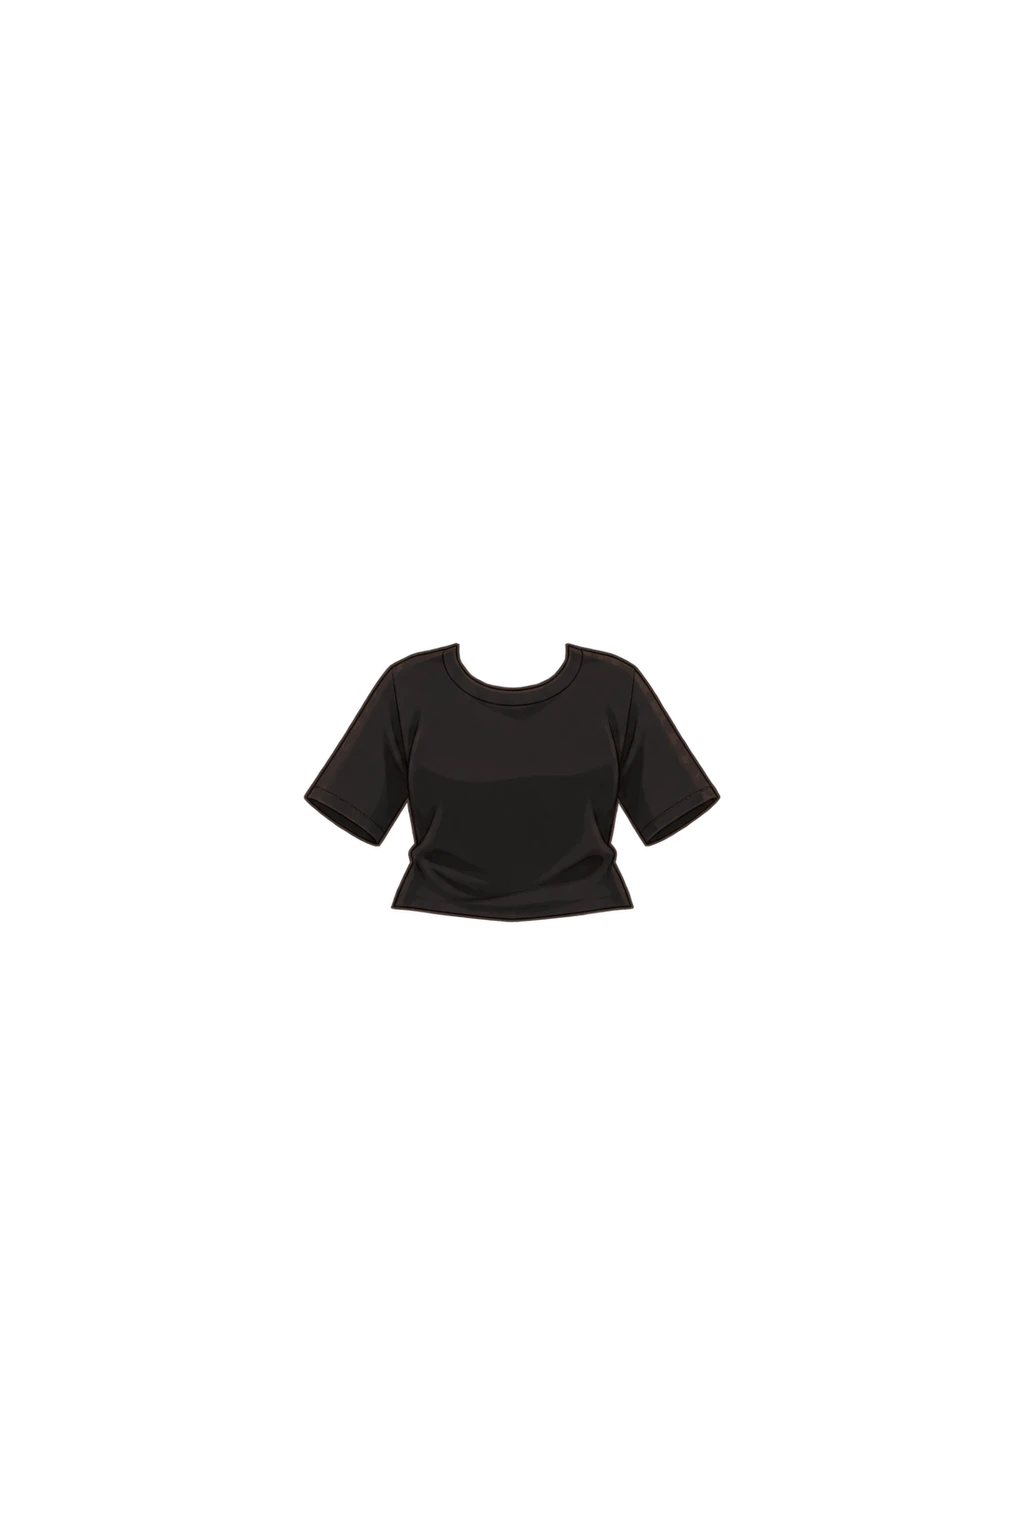
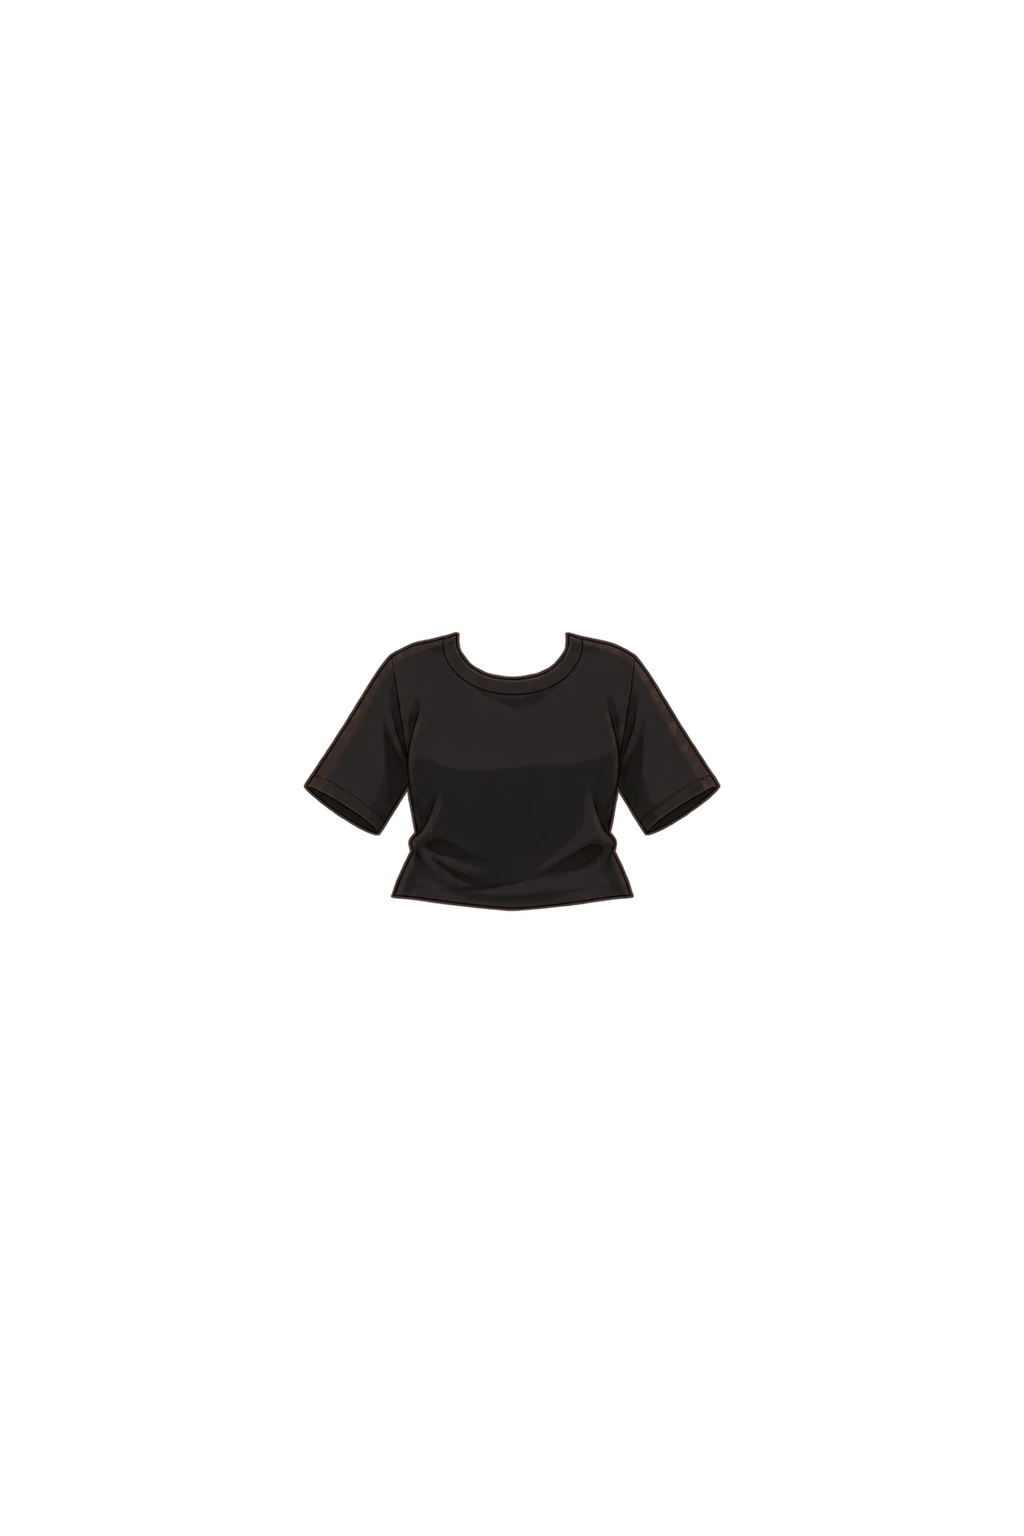
Closet: anchor the default top shrink at the shoulder line
Tops were shrunk around their center, which dropped the shoulders ~13px and let the avatar's shoulders show above them. They now shrink around their top edge.

Claude-Session: https://claude.ai/code/session_01QsJz8svXLJhiXtuEPA1E7w

diff --git a/scripts/build-assets.ts b/scripts/build-assets.ts
@@ -42,10 +42,11 @@ const CLOSET_SHRINK = 1 / 1.08
 // 원피스는 한 단계(+) 크게 보이도록 줄이지 않는다 (= 위 값의 1/1.08 을 되돌린 것)
 const SHRINK_CATEGORIES: Category[] = ['top', 'bottom', 'outer']
 
-async function shrinkAboutCenter(png: string | Buffer, k: number): Promise<Buffer> {
+/** anchor 'top': 옷 맨 위(어깨선)를 고정하고 줄인다 (상의가 어깨선에서 내려오지 않게). 'center': 영역 중심 기준 (앱의 − 와 같음) */
+async function shrinkAboutCenter(png: string | Buffer, k: number, anchor: 'center' | 'top' = 'center'): Promise<Buffer> {
   const box = await alphaBBox(png)
   const cx = box.left + box.width / 2
-  const cy = box.top + box.height / 2
+  const cy = anchor === 'top' ? box.top : box.top + box.height / 2
   const w = Math.round(CANVAS_W * k)
   const h = Math.round(CANVAS_H * k)
   const small = await sharp(png).resize(w, h, { kernel: 'lanczos3' }).png().toBuffer()
@@ -148,7 +149,7 @@ async function main() {
       console.warn(`⚠ ${file}: ${meta.width}x${meta.height} (${CANVAS_W}x${CANVAS_H} 이어야 아바타와 정렬됩니다)`)
     }
     let src = await applyFit(srcFile, fits[stem])
-    if (SHRINK_CATEGORIES.includes(category)) src = await shrinkAboutCenter(src, CLOSET_SHRINK)
+    if (SHRINK_CATEGORIES.includes(category)) src = await shrinkAboutCenter(src, CLOSET_SHRINK, category === 'top' ? 'top' : 'center')
     fs.mkdirSync(path.join(OUT, 'clothes', category), { recursive: true })
     await sharp(src).webp({ quality: 90, alphaQuality: 100 }).toFile(path.join(OUT, 'clothes', category, `${stem}.webp`))
     await makeThumb(src, path.join(OUT, 'thumbs', `${stem}.webp`)).catch((e) => {
